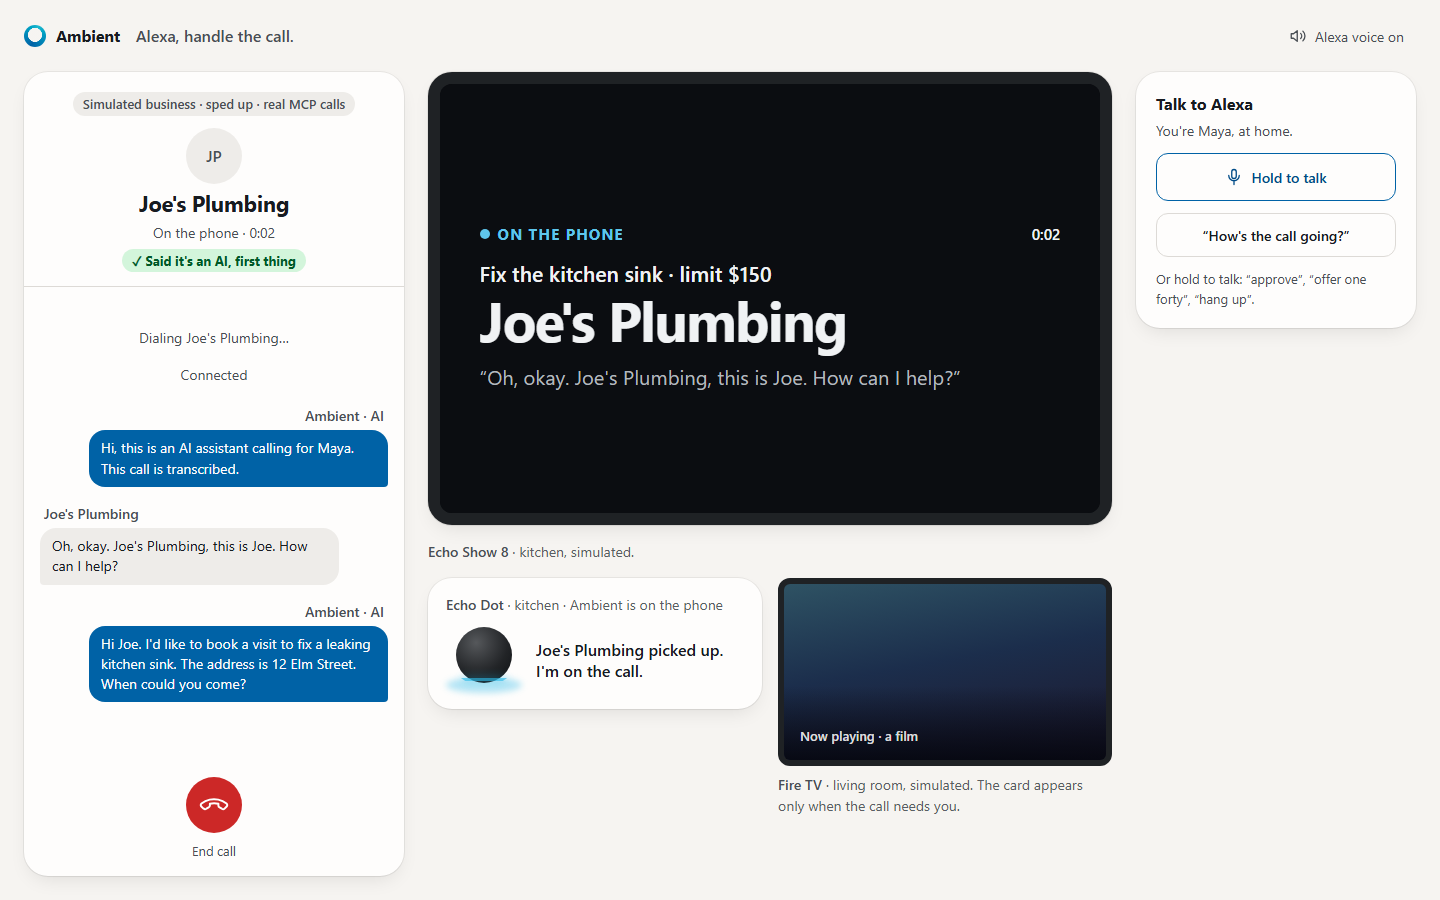
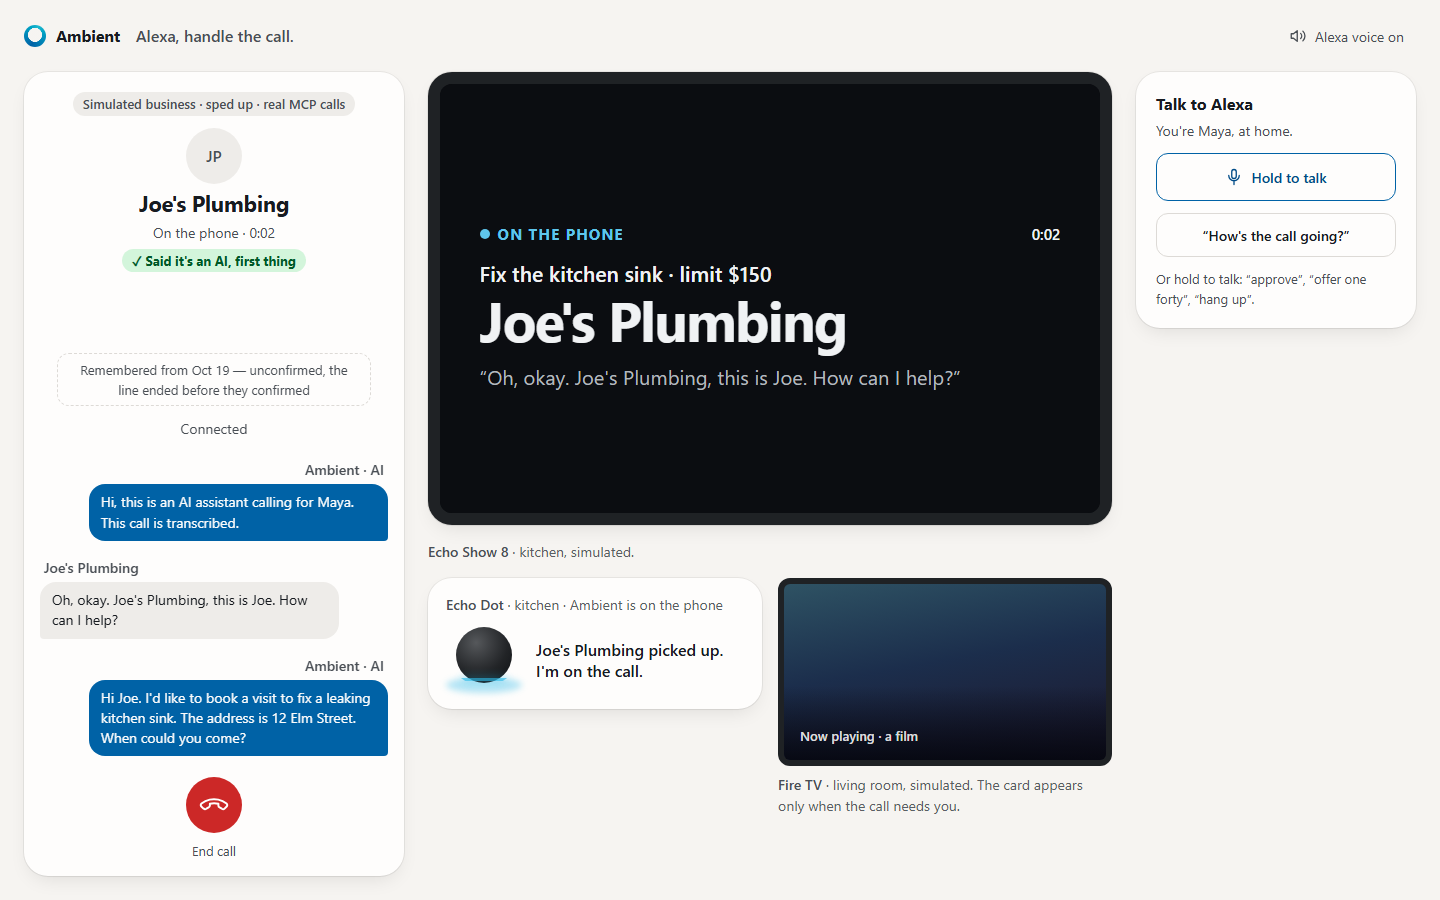
Mark an undated booking as still open, give the refusal and the miss a reason, stop half-cut bubbles

Changed region(s): [[0.0312, 0.3733, 0.2812, 0.84]]

diff --git a/web/sim/index.html b/web/sim/index.html
@@ -87,10 +87,10 @@ main{flex:1;display:grid;grid-template-columns:minmax(330px,380px) minmax(0,1fr)
 .timer{font-variant-numeric:tabular-nums}
 .proof{display:none;font-size:13px;font-weight:650;color:var(--go-text);background:var(--go-soft);padding:2px 10px;border-radius:999px}
 .proof.show{display:inline-block}
-.transcript{flex:1;overflow-y:auto;padding:36px 16px 24px;scroll-snap-type:y proximity;scroll-padding-top:28px;display:flex;flex-direction:column;gap:8px;border-top:1px solid var(--line);
+.transcript{flex:1;overflow-y:auto;padding:36px 16px 8px;scroll-snap-type:y proximity;scroll-padding-top:28px;display:flex;flex-direction:column;gap:8px;border-top:1px solid var(--line);
 }
 .who{scroll-snap-align:start}
-.transcript.scrolled{mask-image:linear-gradient(180deg,transparent 0,#000 28px)}
+.transcript.scrolled{mask-image:linear-gradient(180deg,transparent 0,#000 44px)}
 .bubble{max-width:86%;padding:8px 12px;border-radius:16px;font-size:14px;line-height:1.45;text-wrap:pretty}
 .bubble.business{align-self:flex-start;background:var(--sunk);border-bottom-left-radius:4px}
 .bubble.agent{align-self:flex-end;background:var(--call);color:var(--call-ink);border-bottom-right-radius:4px}
@@ -112,7 +112,9 @@ main{flex:1;display:grid;grid-template-columns:minmax(330px,380px) minmax(0,1fr)
 .outcome.ok{background:var(--go-soft)}
 .outcome.not{background:var(--warn-soft)}
 .outcome .label{font-size:13px;font-weight:650;letter-spacing:.04em;text-transform:uppercase}
+.outcome.ok.open{background:var(--needs-soft)}
 .outcome.ok .label{color:var(--go-text)}
+.outcome.ok.open .label{color:var(--needs-ink)}
 .outcome.not .label{color:var(--warn-text)}
 .outcome p{font-size:16px;font-weight:550;text-wrap:pretty}
 .endcall{width:56px;height:56px;border-radius:50%;border:0;background:var(--end);color:#fff;cursor:pointer;display:none;place-items:center;transition:transform 150ms ease-out}
@@ -331,6 +333,8 @@ function renderTranscript(steps, biz) {
   requestAnimationFrame(() => {
     box.scrollTop = box.scrollHeight;
     box.classList.toggle("scrolled", box.scrollTop > 0);
+    const cut = box.getBoundingClientRect().top + 44;
+    for (const el of box.children) el.style.visibility = box.scrollTop > 0 && el.getBoundingClientRect().top < cut ? "hidden" : "";
   });
 }
 
@@ -354,10 +358,11 @@ function render() {
     out.className = "outcome show " + (ok ? "ok" : "not");
     const undated = ok && !/\b(?:jan|feb|mar|apr|may|jun|jul|aug|sep|oct|nov|dec)[a-z]*\b|\d{1,2}\/\d{1,2}|\bthe (?:\d{1,2}(?:st|nd|rd|th)|(?:twenty|thirty)?-? ?(?:first|second|third|fourth|fifth|sixth|seventh|eighth|ninth)|tenth|eleventh|twelfth|thirteenth|fourteenth|fifteenth|sixteenth|seventeenth|eighteenth|nineteenth|twentieth|thirtieth)\b/i.test(o.when ?? "");
     const caveat = `${/\b(?:mon|tues|wednes|thurs|fri|satur|sun)day\b/i.test(o.when ?? "") ? "Only the weekday was given" : "No date was given"} · ask ${biz} for the date`;
-    out.classList.toggle("caveat", undated);
-    $("outcomeLabel").textContent = ok ? (undated ? "Booked · price confirmed" : `Confirmed by ${biz}`) : t.status === "cancelled" ? "Not booked" : o.kind === "unconfirmed" ? "Not booked" : o.kind === "declined" ? "They declined" : "No deal";
-    $("outcomeText").textContent = undated ? caveat : ok ? o.summary :t.status === "cancelled" ? `You ended the call before ${biz} confirmed. Nothing was booked.` : `${sentence(o.reason)}. Nothing was booked.`;
-    const line = ok ? `Booked. ${sentence(o.when ?? "")}${o.amountUsd !== undefined ? `, ${usd(o.amountUsd)}` : ""}.` : "Nothing was booked.";
+    out.classList.toggle("caveat", undated || !ok);
+    out.classList.toggle("open", undated);
+    $("outcomeLabel").textContent = ok ? (undated ? "Booked · date still open" : `Confirmed by ${biz}`) : t.status === "cancelled" ? "Not booked" : o.kind === "unconfirmed" ? "Not booked" : o.kind === "declined" ? "They declined" : "No deal";
+    $("outcomeText").textContent = undated ? caveat : ok ? o.summary :t.status === "cancelled" ? `You ended the call before ${biz} confirmed.` : `${sentence(o.reason)}.`;
+    const line = ok ? `Booked. ${sentence(o.when ?? "")}${o.amountUsd !== undefined ? `, ${usd(o.amountUsd)}` : ""}.${undated ? " The date is still open." : ""}` : "Nothing was booked.";
     if (line !== state.lastOutcome) { state.lastOutcome = line; if (ok) chime(); speak(line); }
   } else out.className = "outcome";
 
@@ -374,6 +379,7 @@ function render() {
     if ($("caption").textContent === state.lastCue) $("caption").textContent = live() ? `Ambient is back on the phone with ${biz}.` : "";
     state.lastCue = null;
   }
+  if (!ap && live() && /^Ambient: .*(?:dollars|total)/.test(steps.at(-1) ?? "") && $("caption").textContent === `Ambient is back on the phone with ${biz}.`) $("caption").textContent = `Ambient is asking ${biz} for one total price.`;
 
   clearInterval(state.tick);
   const tickTimer = () => {

diff --git a/src/task-view.ts b/src/task-view.ts
@@ -41,6 +41,8 @@ button:focus-visible{outline:2px solid var(--call);outline-offset:3px}
 .check svg{width:62%;height:62%;fill:none;stroke:currentColor;stroke-width:3.2;stroke-linecap:round;stroke-linejoin:round;stroke-dasharray:24;stroke-dashoffset:0}
 body.booked .chip::before{display:none}
 body.booked{background:radial-gradient(circle at 8% 22%,oklch(0.72 0.17 150 / .16),transparent 55%) var(--bg)}
+body.booked.open{background:radial-gradient(circle at 8% 22%,oklch(0.78 0.17 62 / .16),transparent 55%) var(--bg)}
+body.booked.open .check{background:var(--needs)}
 body.booked .check{display:grid;animation:land 420ms cubic-bezier(0.2,0,0,1) both}
 body.booked .check path{animation:draw 600ms 180ms cubic-bezier(0.2,0,0,1) both}
 @keyframes land{0%{transform:scale(.4);opacity:0}100%{transform:scale(1);opacity:1}}
@@ -146,7 +148,7 @@ function render(d){
  const said=speakers(steps,biz),owner=said.filter(l=>l.who!=="Ambient"&&l.who!==biz).at(-1),what=errand(t.instruction);
  const theirs=said.filter(l=>l.who===biz).at(-1);
  const kind=ap?"needs":o?"done":live?"live":"idle";
- document.body.classList.remove("booked","arrive");
+ document.body.classList.remove("booked","open","arrive");
  if(kind==="needs"&&shown!=="needs"){void document.body.offsetWidth;document.body.classList.add("arrive");}
  shown=kind;document.body.dataset.state=kind;
  over.textContent="";flag.textContent="";flag.className="flag";hint.textContent="";tv.textContent="";$("what").textContent="";$("clock").textContent="";buttons([]);foot([]);
@@ -167,9 +169,10 @@ function render(d){
    ...offers(ap,said).map(v=>({label:"Offer "+usd(v),note:"Your limit",kind:"offer",run:()=>act("delegate",{task:"offer "+v})})),
    {label:"Decline",note:spend?"Ambient hangs up":"",kind:"quiet",run:()=>act("approve",{decision:"deny"})}]);
   }
- else if(o){const ok=o.kind==="confirmed";chip.className="chip "+(ok?"done":"warn");
+ else if(o){const ok=o.kind==="confirmed";chip.className="chip "+(ok?(dated(o.when)?"done":"needs"):"warn");
   if(ok)document.body.classList.add("booked");
-  chip.textContent=ok?(dated(o.when)?"Booked \\u00b7 confirmed by "+biz:"Booked \\u00b7 price confirmed"):o.kind==="unconfirmed"?"Not booked":o.kind==="declined"?"Declined":"No deal";
+  if(ok&&!dated(o.when))document.body.classList.add("open");
+  chip.textContent=ok?(dated(o.when)?"Booked \\u00b7 confirmed by "+biz:"Booked \\u00b7 date still open"):o.kind==="unconfirmed"?"Not booked":o.kind==="declined"?"Declined":"No deal";
   if(ok){$("what").textContent=what?biz+" \\u00b7 "+what:biz;setStake(o.amountUsd,cap(o.when||biz));
    if(!dated(o.when)){flag.className="flag date";flag.textContent=(/\\b(?:mon|tues|wednes|thurs|fri|satur|sun)day\\b/i.test(o.when||"")?"Only the weekday was given":"No date was given")+" \\u00b7 ask "+biz+" for the date";}}
   else{stake.textContent="Nothing was booked.";$("what").textContent=[biz,what,limitOf(t.instruction)].filter(Boolean).join(" \\u00b7 ");}
